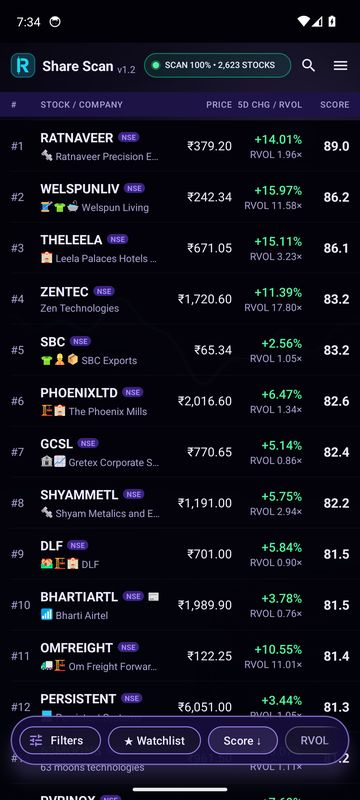
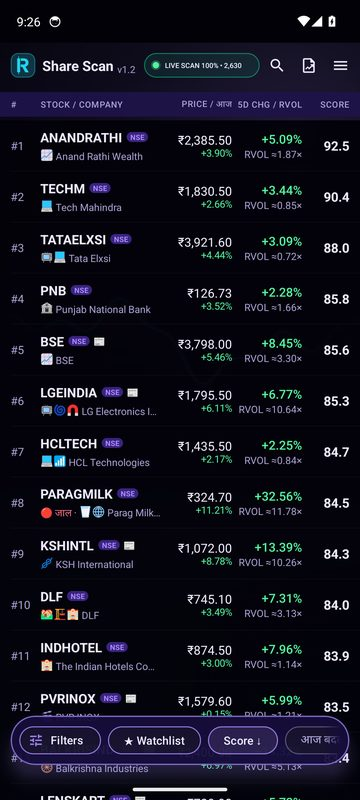
Guide: the compact list's picture with today's move; review Big Money again
The guide's compact-table picture now shows the price column with today's move
under it. The temporary emulator review runs the Big Money part again with
auto-scan off, which a market-hours run had started over it.

Claude-Session: https://claude.ai/code/session_01QbLgyeA7dNDAR22EZYeTV5

diff --git a/app/src/main/assets/guide/index.html b/app/src/main/assets/guide/index.html
@@ -294,7 +294,7 @@ footer { border-top: 1px solid var(--line); padding-block: 28px 40px; color: var
           </ul>
         </div>
         <div class="shots">
-          <figure><img src="img/list-compact.jpg" alt="Space Glass की compact table: rank, symbol, भाव, 5 दिन का बदलाव, RVOL और score" loading="lazy" width="360" height="800"><figcaption>Space Glass: हर stock एक line में</figcaption></figure>
+          <figure><img src="img/list-compact.jpg" alt="Space Glass की compact table: rank, symbol, भाव और उसके नीचे आज का बदलाव, 5 दिन का बदलाव, RVOL और score" loading="lazy" width="360" height="800"><figcaption>Space Glass: हर stock एक line में</figcaption></figure>
           <figure><img src="img/galaxy.jpg" alt="Galaxy layout: ऊपर scan बोर्ड, नीचे बड़े cards" loading="lazy" width="360" height="800"><figcaption>Galaxy: scan बोर्ड और बड़े cards</figcaption></figure>
         </div>
       </div>
